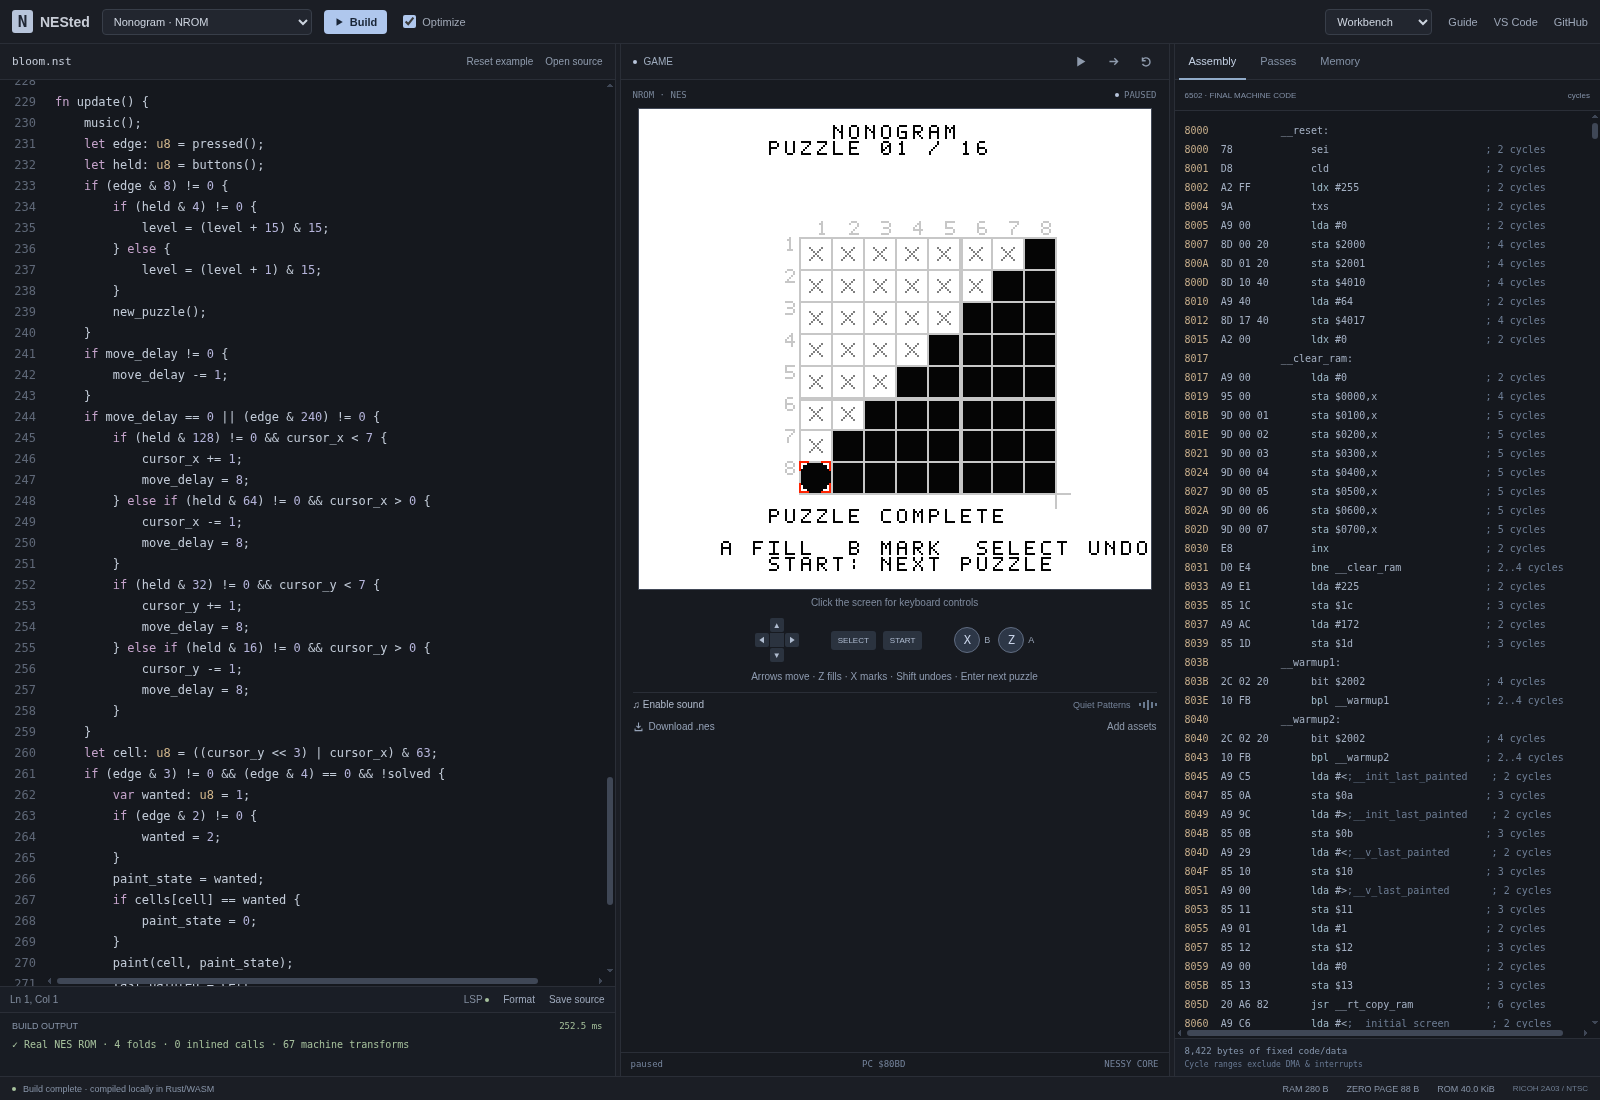
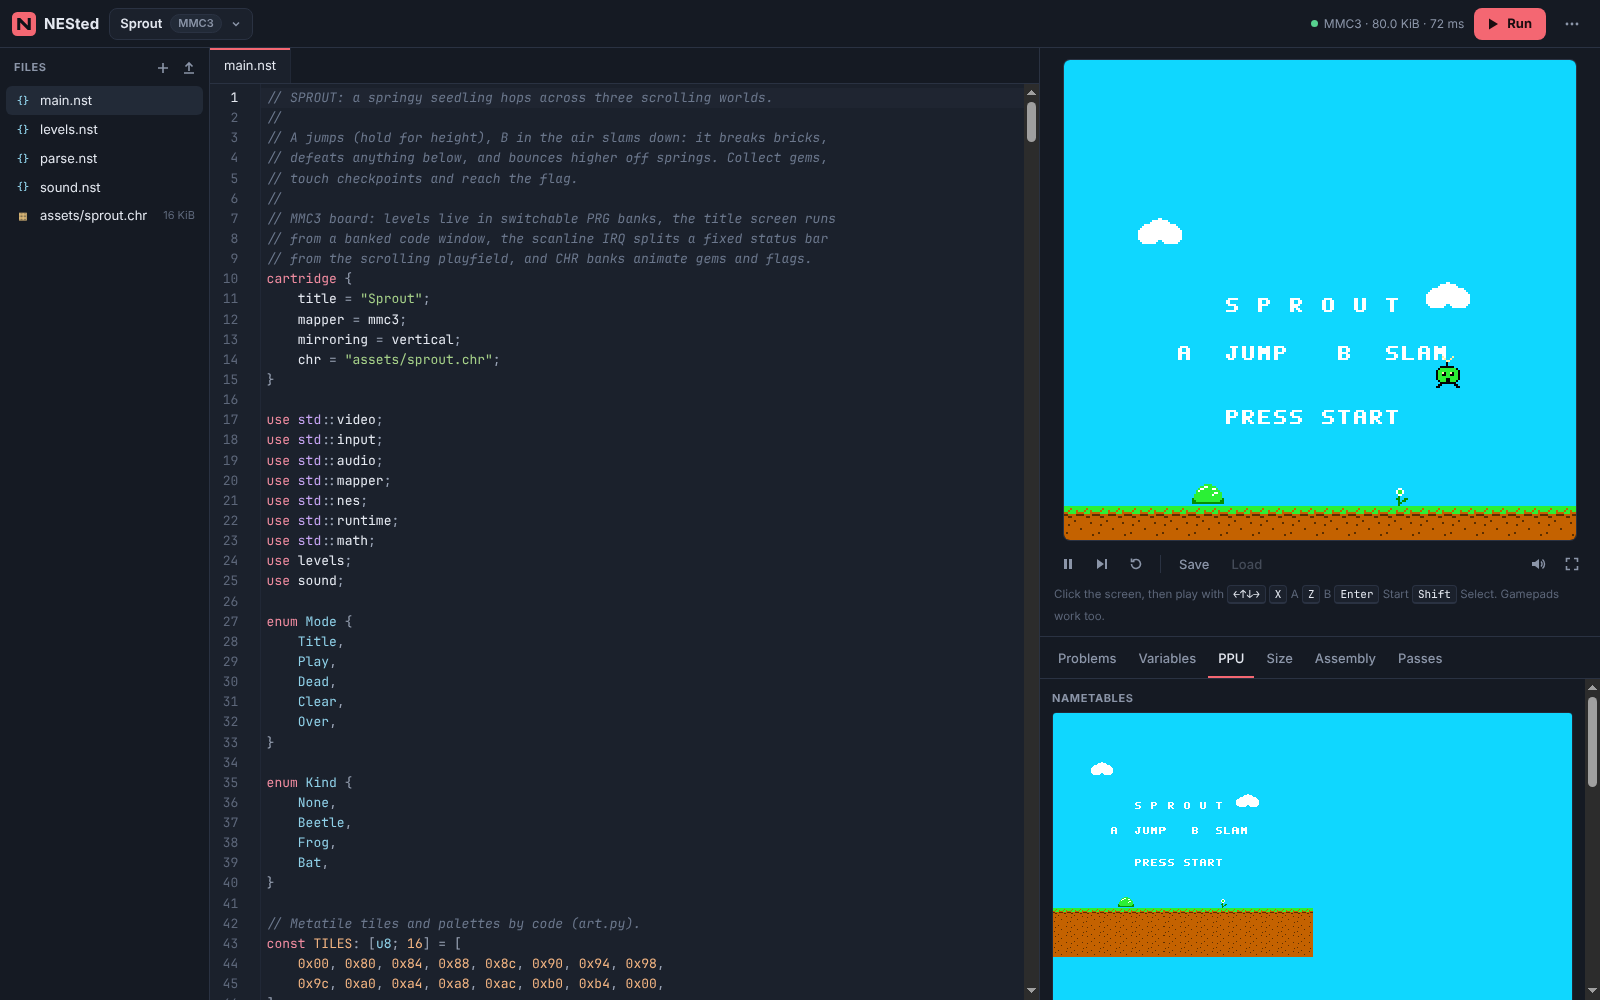
Make CI green and refresh screenshots
- Fix every clippy warning (stylistic index-loop and argument-count
  lints are allowed crate-wide in the compiler).
- Check formatting of the per-project example sources; the Sprout level
  generator now writes formatter-clean output.
- Point the chess asset generators at games/chess/assets (they
  reproduce the committed assets byte for byte).
- Rewrite the screenshot script for the new playground and capture the
  three examples, the workbench and the phone layout.

Claude-Session: https://claude.ai/code/session_0174bxAvFHeBGeARn5bR3qMC

diff --git a/crates/compiler/src/fmt.rs b/crates/compiler/src/fmt.rs
@@ -255,16 +255,14 @@ impl Formatter<'_> {
                                 prev = Some(&self.toks[i - 1].tok);
                                 prev_text = "}".into();
                                 let next = self.toks.get(i).map(|t| &t.tok);
-                                if !matches!(
+                                if (!matches!(
                                     next,
                                     Some(Tok::Punct(";" | "," | ")")) | Some(Tok::Ident(_))
-                                ) || matches!(next, Some(Tok::Ident(w)) if w != "else")
+                                ) || matches!(next, Some(Tok::Ident(w)) if w != "else"))
+                                    && !matches!(next, Some(Tok::Ident(w)) if w == "else")
+                                    && !matches!(next, Some(Tok::Punct(_)))
                                 {
-                                    if !matches!(next, Some(Tok::Ident(w)) if w == "else")
-                                        && !matches!(next, Some(Tok::Punct(_)))
-                                    {
-                                        self.newline();
-                                    }
+                                    self.newline();
                                 }
                                 continue;
                             }
@@ -375,17 +373,16 @@ impl Formatter<'_> {
                     let after_word =
                         prev.is_some_and(is_word) || matches!(prev, Some(Tok::Punct(")" | "]")));
                     let after_keyword = matches!(prev, Some(Tok::Ident(w)) if matches!(w.as_str(), "if" | "while" | "return" | "in" | "match" | "let" | "var"));
-                    if !after_word || after_keyword {
-                        if !(prev_text == "("
+                    if (!after_word || after_keyword)
+                        && (!(prev_text == "("
                             || prev_text == "["
                             || prev_text == "!"
                             || prev_text == "~"
                             || prev_text == "@"
                             || prev_text == "&")
-                            || after_keyword
-                        {
-                            self.space();
-                        }
+                            || after_keyword)
+                    {
+                        self.space();
                     }
                     self.push(p);
                     // Multi-line array literals keep one row per source line.
@@ -443,10 +440,8 @@ impl Formatter<'_> {
                         ".." | "..=" => self.push(p),
                         _ if unary => {
                             self.space();
-                            if prev_text == "(" || prev_text == "[" {
-                                if self.line.ends_with(' ') {
-                                    self.line.pop();
-                                }
+                            if (prev_text == "(" || prev_text == "[") && self.line.ends_with(' ') {
+                                self.line.pop();
                             }
                             self.push(p);
                         }

diff --git a/crates/compiler/src/lsp.rs b/crates/compiler/src/lsp.rs
@@ -827,11 +827,11 @@ fn completion(a: &Analysis, file: crate::source::FileId, text: &str, offset: usi
     let module = a.modules.iter().position(|m| m.file == file).unwrap_or(0);
     let mut items = Vec::new();
     // `path::` completions.
-    if prefix_text.ends_with("::") {
-        let path_start = prefix_text[..prefix_text.len() - 2]
+    if let Some(stem) = prefix_text.strip_suffix("::") {
+        let path_start = stem
             .rfind(|c: char| !(c.is_ascii_alphanumeric() || c == '_' || c == ':'))
             .map_or(0, |i| i + 1);
-        let path = &prefix_text[path_start..prefix_text.len() - 2];
+        let path = &stem[path_start..];
         let segs: Vec<&str> = path.split("::").collect();
         // Resolve the path's first segment in module scope.
         let mut target: Option<Def> = a.modules[module].names.get(segs[0]).copied();
@@ -842,8 +842,8 @@ fn completion(a: &Analysis, file: crate::source::FileId, text: &str, offset: usi
                 .iter()
                 .position(|m| m.path == file)
                 .map(|i| Def::Module(i as u32));
-            if target.is_some() {
-                return module_items(a, target.unwrap(), &mut items);
+            if let Some(t) = target {
+                return module_items(a, t, &mut items);
             }
             if segs == ["std"] {
                 for m in &a.modules {
@@ -1070,7 +1070,7 @@ fn signature(a: &Analysis, file: crate::source::FileId, text: &str, offset: usiz
             s.file == file && s.start as usize >= name_start && s.end as usize <= name_end
         })
         .map(|(_, d)| *d)
-        .last()
+        .next_back()
         .or_else(|| {
             let module = a.modules.iter().position(|m| m.file == file).unwrap_or(0);
             a.modules[module].names.get(last).copied()

diff --git a/crates/compiler/src/peephole.rs b/crates/compiler/src/peephole.rs
@@ -36,11 +36,37 @@ fn reads_nz(op: Op) -> bool {
 
 fn writes_nz(ins: &Ins) -> bool {
     use Op::*;
-    match ins.op {
-        Lda | Ldx | Ldy | Adc | Sbc | And | Ora | Eor | Cmp | Cpx | Cpy | Bit | Inc | Dec | Inx
-        | Iny | Dex | Dey | Asl | Lsr | Rol | Ror | Tax | Tay | Txa | Tya | Tsx | Pla | Plp => true,
-        _ => false,
-    }
+    matches!(
+        ins.op,
+        Lda | Ldx
+            | Ldy
+            | Adc
+            | Sbc
+            | And
+            | Ora
+            | Eor
+            | Cmp
+            | Cpx
+            | Cpy
+            | Bit
+            | Inc
+            | Dec
+            | Inx
+            | Iny
+            | Dex
+            | Dey
+            | Asl
+            | Lsr
+            | Rol
+            | Ror
+            | Tax
+            | Tay
+            | Txa
+            | Tya
+            | Tsx
+            | Pla
+            | Plp
+    )
 }
 
 /// Instruction sets N/Z from the value now in A.
@@ -579,7 +605,7 @@ fn jumps(lines: &mut Vec<Line>) -> bool {
 }
 
 /// `jsr f; rts` → `jmp f`.
-fn tails(lines: &mut Vec<Line>) -> bool {
+fn tails(lines: &mut [Line]) -> bool {
     let mut changed = false;
     for i in 0..lines.len().saturating_sub(1) {
         if let (Line::Ins(a), Line::Ins(b)) = (&lines[i], &lines[i + 1]) {

diff --git a/scripts/chess/book.py b/scripts/chess/book.py
@@ -7,7 +7,7 @@ alternatives the rest, and positions below a threshold are not expanded.
 Each position is stored as its 16-bit key (the cartridge's h0, h1 Zobrist
 bytes), a move count, then that many moves as (from, to) squares 0..63.
 Keys are computed exactly as the cartridge does, from
-games/assets/chess.zobrist.bin.
+games/chess/assets/zobrist.bin.
 
   scripts/chess/book.py --entries 700
 """
@@ -18,8 +18,8 @@ import chess
 import chess.engine
 
 ROOT = pathlib.Path(__file__).resolve().parents[2]
-ASSETS = ROOT / "games" / "assets"
-Z = (ASSETS / "chess.zobrist.bin").read_bytes()
+ASSETS = ROOT / "games" / "chess" / "assets"
+Z = (ASSETS / "zobrist.bin").read_bytes()
 GROUP_OFFSET = [0, 8, 128, 136]
 
 
@@ -122,7 +122,7 @@ def main():
             frontier.append((weight * share / total, child, child_ep))
     engine.quit()
     data = encode([((h0, h1), move.from_square, move.to_square) for (h0, h1, _), move in entries])
-    (ASSETS / "chess.book.bin").write_bytes(bytes(data))
+    (ASSETS / "book.bin").write_bytes(bytes(data))
     print(f"{len(entries)} entries, {len(seen)} positions, {len(data)} bytes")
 
 

diff --git a/crates/compiler/src/codegen.rs b/crates/compiler/src/codegen.rs
@@ -1131,7 +1131,6 @@ impl Gen<'_> {
         };
         if let Some(k) = b.konst() {
             // `>` and `<=` become `>=` and `<` against k + 1.
-            let k = if sc.signed() { k } else { k };
             match op {
                 BinOp::Gt if k < hi => {
                     op = BinOp::Ge;
@@ -1954,16 +1953,13 @@ impl Gen<'_> {
             self.jump(Op::Jmp, &l);
             return;
         }
-        match self.inst.rets.as_slice() {
-            [r] => {
-                let sc = self.inst.vars[r.0 as usize].sc;
-                let o = self.var(*r);
-                self.ins(Op::Lda, Arg::Mem(o.clone()));
-                if sc.wide() {
-                    self.ins(Op::Ldx, Arg::Mem(o.plus(1)));
-                }
+        if let [r] = self.inst.rets.as_slice() {
+            let sc = self.inst.vars[r.0 as usize].sc;
+            let o = self.var(*r);
+            self.ins(Op::Lda, Arg::Mem(o.clone()));
+            if sc.wide() {
+                self.ins(Op::Ldx, Arg::Mem(o.plus(1)));
             }
-            _ => {}
         }
         self.imp(Op::Rts);
     }

diff --git a/crates/compiler/src/check_expr.rs b/crates/compiler/src/check_expr.rs
@@ -955,7 +955,7 @@ impl Checker<'_> {
         expected: Option<&Type>,
         span: Span,
     ) -> Expr {
-        let op = BinOp::from_str(op).unwrap();
+        let op = BinOp::parse(op).unwrap();
         if op.is_logic() {
             let x = self.expr(s, a, Some(&Type::Bool));
             let x = self.coerce(s, x, &Type::Bool);
@@ -1967,7 +1967,7 @@ impl Checker<'_> {
                 }
                 let (klo, khi) = self.interval(s, k);
                 let current = {
-                    let e = if matches!(var(a), Some(_)) { a } else { b };
+                    let e = if var(a).is_some() { a } else { b };
                     self.interval(s, e)
                 };
                 let fact = match op {
@@ -2154,7 +2154,7 @@ impl Checker<'_> {
                 let bin = if *op == "=" {
                     None
                 } else {
-                    BinOp::from_str(&op[..op.len() - 1])
+                    BinOp::parse(&op[..op.len() - 1])
                 };
                 let v = match bin {
                     Some(BinOp::Shl | BinOp::Shr) => {

diff --git a/scripts/chess/tables.py b/scripts/chess/tables.py
@@ -11,7 +11,7 @@ cartridge's material values compensate for (see OFFSETS).
 import pathlib
 import struct
 
-OUT = pathlib.Path(__file__).resolve().parents[2] / "games" / "assets"
+OUT = pathlib.Path(__file__).resolve().parents[2] / "games" / "chess" / "assets"
 
 # PeSTO tables, rank 8 first (index 0 = a8), from White's point of view.
 MG = {
@@ -180,9 +180,9 @@ def lines():
 
 def main():
     OUT.mkdir(parents=True, exist_ok=True)
-    (OUT / "chess.pst.bin").write_bytes(packed(MG, "mg") + packed(EG, "eg"))
-    (OUT / "chess.zobrist.bin").write_bytes(zobrist())
-    (OUT / "chess.lines.bin").write_bytes(lines())
+    (OUT / "pst.bin").write_bytes(packed(MG, "mg") + packed(EG, "eg"))
+    (OUT / "zobrist.bin").write_bytes(zobrist())
+    (OUT / "lines.bin").write_bytes(lines())
     print("PST material offsets:", OFFSETS)
 
 

diff --git a/scripts/chess/graphics.py b/scripts/chess/graphics.py
@@ -11,7 +11,7 @@ Square colors come from palettes: 0 light, 1 dark, 2/3 highlighted.
 """
 import pathlib
 
-OUT = pathlib.Path(__file__).resolve().parents[2] / "games" / "assets"
+OUT = pathlib.Path(__file__).resolve().parents[2] / "games" / "chess" / "assets"
 
 # '.' square (color 1), '#' body, 'o' outline. White pieces: body 2 (white),
 # outline 3 (black). Black pieces: body 3, outline 2.
@@ -304,9 +304,9 @@ def nametable():
 
 def main():
     OUT.mkdir(parents=True, exist_ok=True)
-    (OUT / "chess.chr").write_bytes(chr_rom())
-    (OUT / "chess.pal").write_bytes(bytes(PALETTE))
-    (OUT / "chess.map").write_bytes(nametable())
+    (OUT / "chr").write_bytes(chr_rom())
+    (OUT / "pal").write_bytes(bytes(PALETTE))
+    (OUT / "map").write_bytes(nametable())
 
 
 if __name__ == "__main__":

diff --git a/crates/compiler/src/consteval.rs b/crates/compiler/src/consteval.rs
@@ -160,11 +160,9 @@ impl<'e, E: Env> Interp<'e, E> {
             ExprKind::Local(id) => self.frames.last().unwrap()[id.0 as usize].clone(),
             ExprKind::Global(g) => self.read_global(*g, e.span)?,
             ExprKind::SliceOf(g) => {
-                let n = match &self.env.types().size(&Type::U8) {
-                    _ => match self.read_global(*g, e.span)? {
-                        Value::Aggregate(v) => v.len() as u32,
-                        _ => 0,
-                    },
+                let n = match self.read_global(*g, e.span)? {
+                    Value::Aggregate(v) => v.len() as u32,
+                    _ => 0,
                 };
                 Value::Slice(*g, 0, n)
             }

diff --git a/crates/compiler/src/parser.rs b/crates/compiler/src/parser.rs
@@ -651,14 +651,11 @@ impl<'a> Parser<'a> {
 
     fn binary(&mut self, min: u8) -> PResult<Expr> {
         let mut lhs = self.unary()?;
-        loop {
-            let Some((op, prec)) = BINARY
-                .iter()
-                .find(|(op, _)| self.is(op))
-                .map(|(op, p)| (*op, *p))
-            else {
-                break;
-            };
+        while let Some((op, prec)) = BINARY
+            .iter()
+            .find(|(op, _)| self.is(op))
+            .map(|(op, p)| (*op, *p))
+        {
             if prec < min {
                 break;
             }

diff --git a/crates/compiler/src/lib.rs b/crates/compiler/src/lib.rs
@@ -1,6 +1,14 @@
 //! NESted: a statically allocated language for the NES, with an embeddable
 //! compiler, assembler, linker and language service. No third-party
 //! dependencies and no I/O: hosts supply sources and asset bytes.
+// Passes walk parallel per-block tables by index and thread a lot of
+// context through helpers; these lints fight that style.
+#![allow(
+    clippy::needless_range_loop,
+    clippy::too_many_arguments,
+    clippy::type_complexity,
+    clippy::collapsible_match
+)]
 pub mod asm;
 pub mod ast;
 pub mod build_mir;

diff --git a/crates/compiler/src/build_mir.rs b/crates/compiler/src/build_mir.rs
@@ -431,7 +431,7 @@ impl Builder<'_, '_> {
                     (&i.kind, *raw_index(e), wide, inner)
                 {
                     if let (Some(k), Sc::U8) = (k.constant(), self.sc(&x.ty)) {
-                        if pr.index.is_none() && k >= 0 && k < 256 {
+                        if pr.index.is_none() && (0..256).contains(&k) {
                             let base = self.scalar(x);
                             let wide_x = self.convert(base, Sc::U16);
                             let off = if *op == BinOp::Add { k } else { -k };
